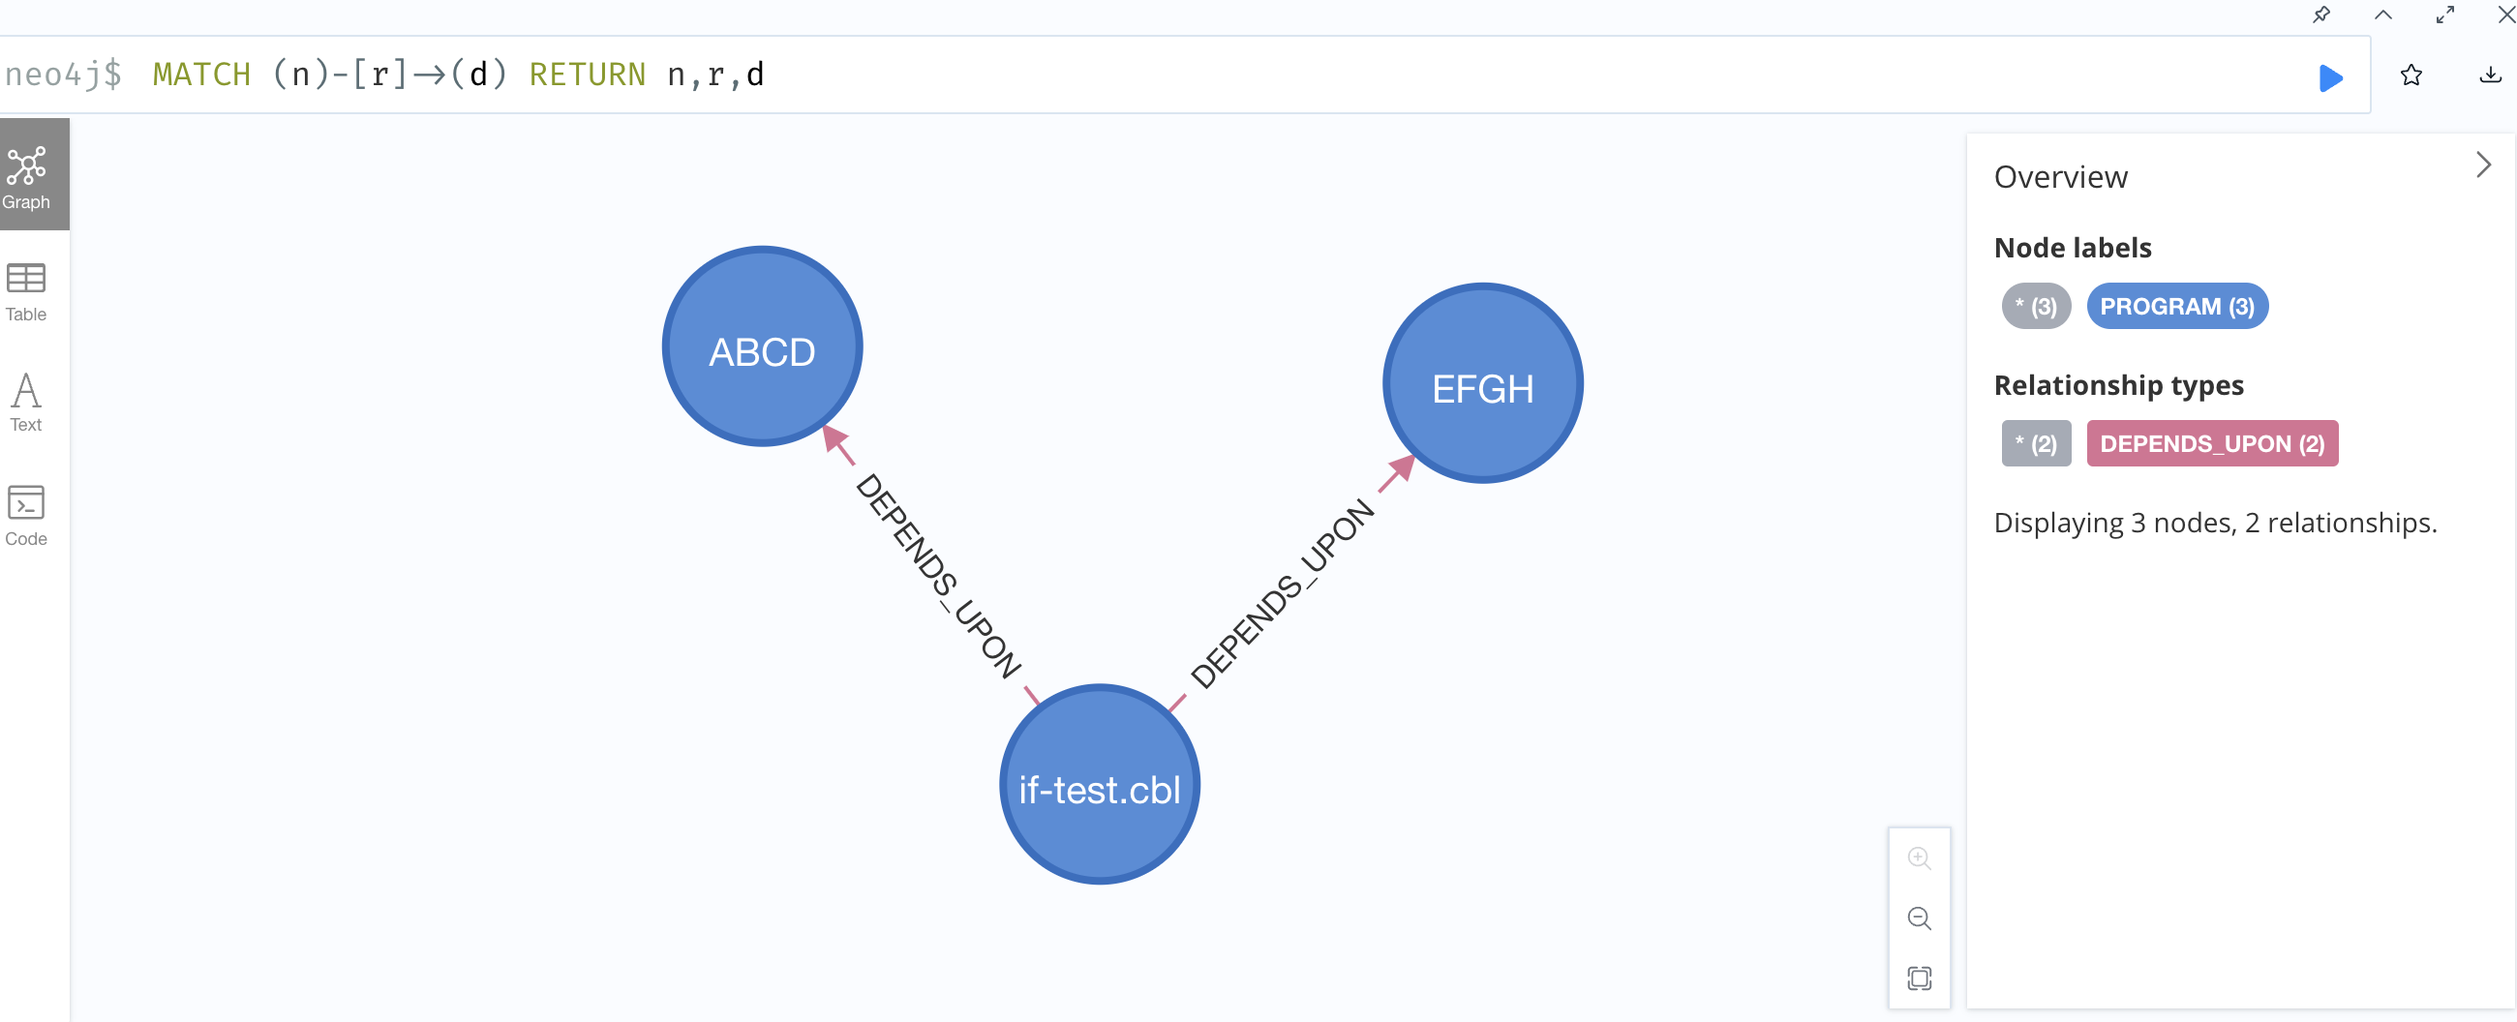
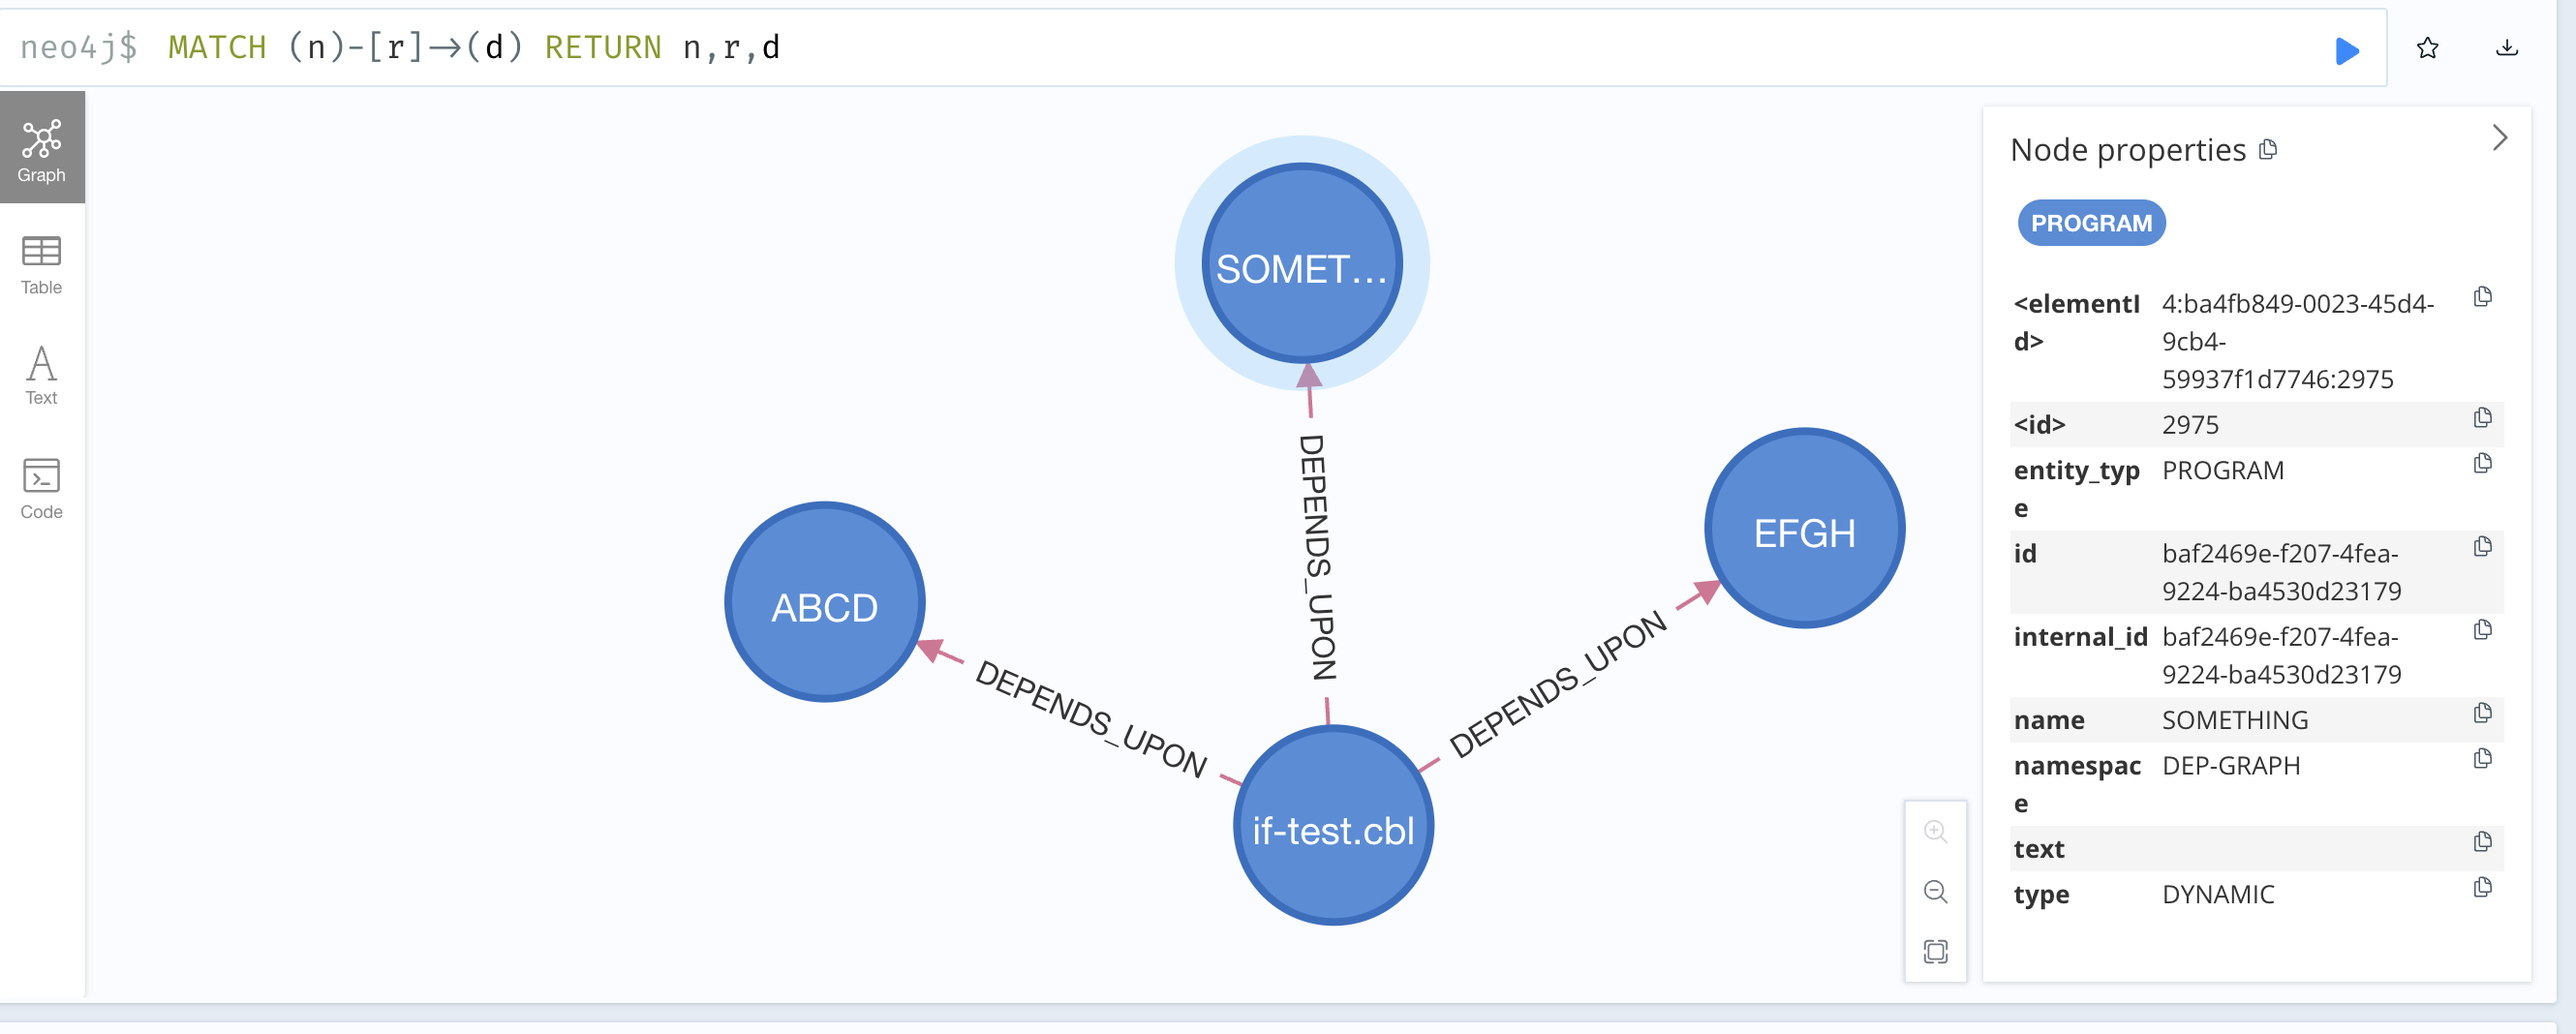
Injecting dependency reference type in Neo4J

diff --git a/smojol-toolkit/src/main/java/org/smojol/analysis/graph/NodeSpecBuilder.java b/smojol-toolkit/src/main/java/org/smojol/analysis/graph/NodeSpecBuilder.java
@@ -140,7 +140,7 @@ public class NodeSpecBuilder {
                         INTERNAL_ID, id,
                         NAME, program.getName(),
                         TEXT, "",
-                        TYPE, PROGRAM_NODE,
+                        TYPE, program.getCallTarget().getReferenceType().name(),
                         ENTITY_TYPE, PROGRAM_NODE,
                         NAMESPACE, namespaceQualifier.getNamespace()
                 ));

diff --git a/smojol-toolkit/src/main/java/org/smojol/ast/CallTarget.java b/smojol-toolkit/src/main/java/org/smojol/ast/CallTarget.java
@@ -7,7 +7,7 @@ import org.eclipse.lsp.cobol.dialects.idms.IdmsParser;
 
 public abstract class CallTarget {
     @Expose @Getter private final String name;
-    @Expose private final ReferenceType referenceType;
+    @Expose @Getter private final ReferenceType referenceType;
 
     public CallTarget(String callTargetString, ReferenceType referenceType) {
         this.name = callTargetString.trim().replace("\"", "").replace("'", "");

diff --git a/README.md b/README.md
@@ -334,9 +334,9 @@ This command is used to trace the inter-program dependencies starting from a roo
 java -jar smojol-cli/target/smojol-cli.jar dependency if-test.cbl --srcDir /Users/asgupta/code/smojol/smojol-test-code --copyBooksDir /Users/asgupta/code/smojol/smojol-test-code --dialectJarPath ./che-che4z-lsp-for-cobol-integration/server/dialect-idms/target/dialect-idms.jar --export=out.json
 ```
 
-Specifying the ```--neo4j``` flag injects those dependencies into Neo4J, while setting a path through ```export``` will export it to JSON. The screenshot below shows a very simple dependency graph generated from ```if-test.cbl``` (in the ```smojol-test-code``` directory).
+Specifying the ```--neo4j``` flag injects those dependencies into Neo4J, while setting a path through ```export``` will export it to JSON. The screenshot below shows a very simple dependency graph generated from ```if-test.cbl``` (in the ```smojol-test-code``` directory). Dynamic dependencies (resolved through variables and expressions) are not resolved any deeper.
 
-![simple-inter-program-dependency-graph](documentation/inter-program-dependencies.png)
+![simple-inter-program-dependency-graph](documentation/inter-program-dependencies2.png)
 
 The help text for this command is reproduced below:
 
